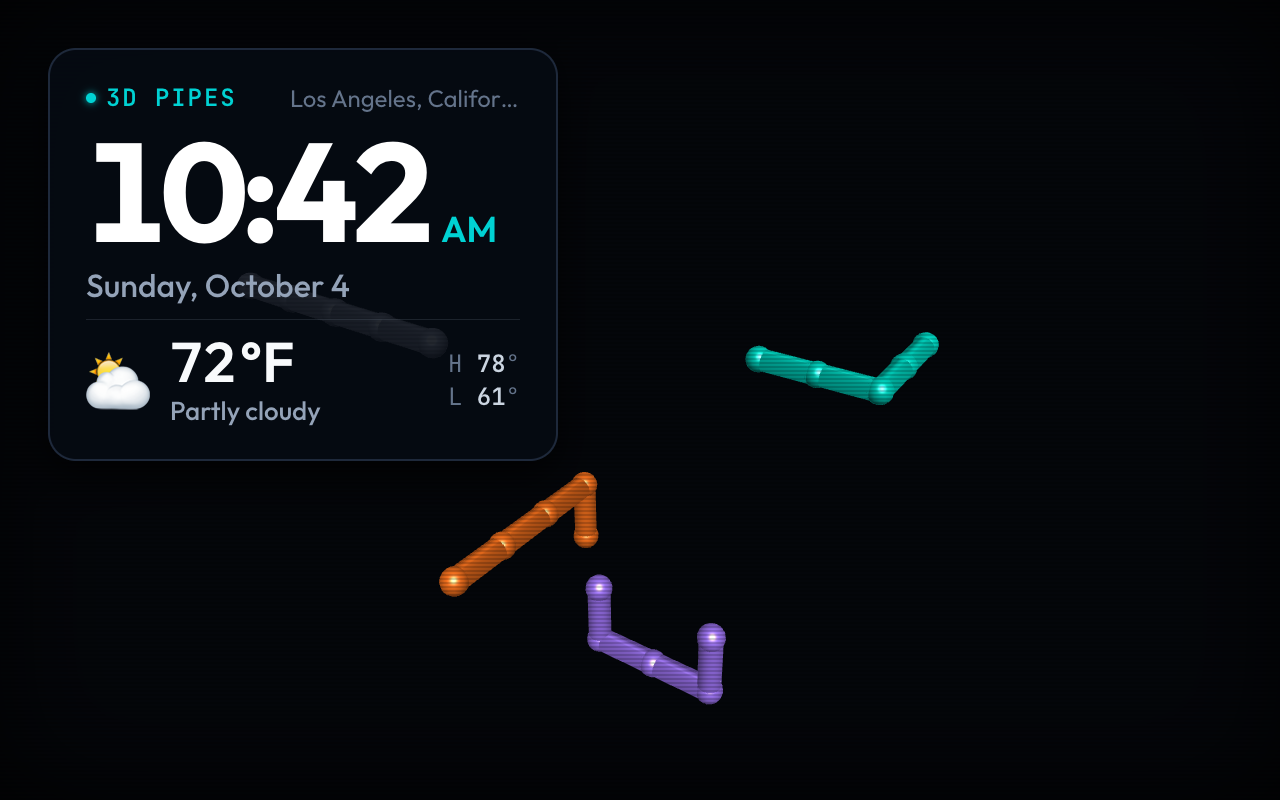
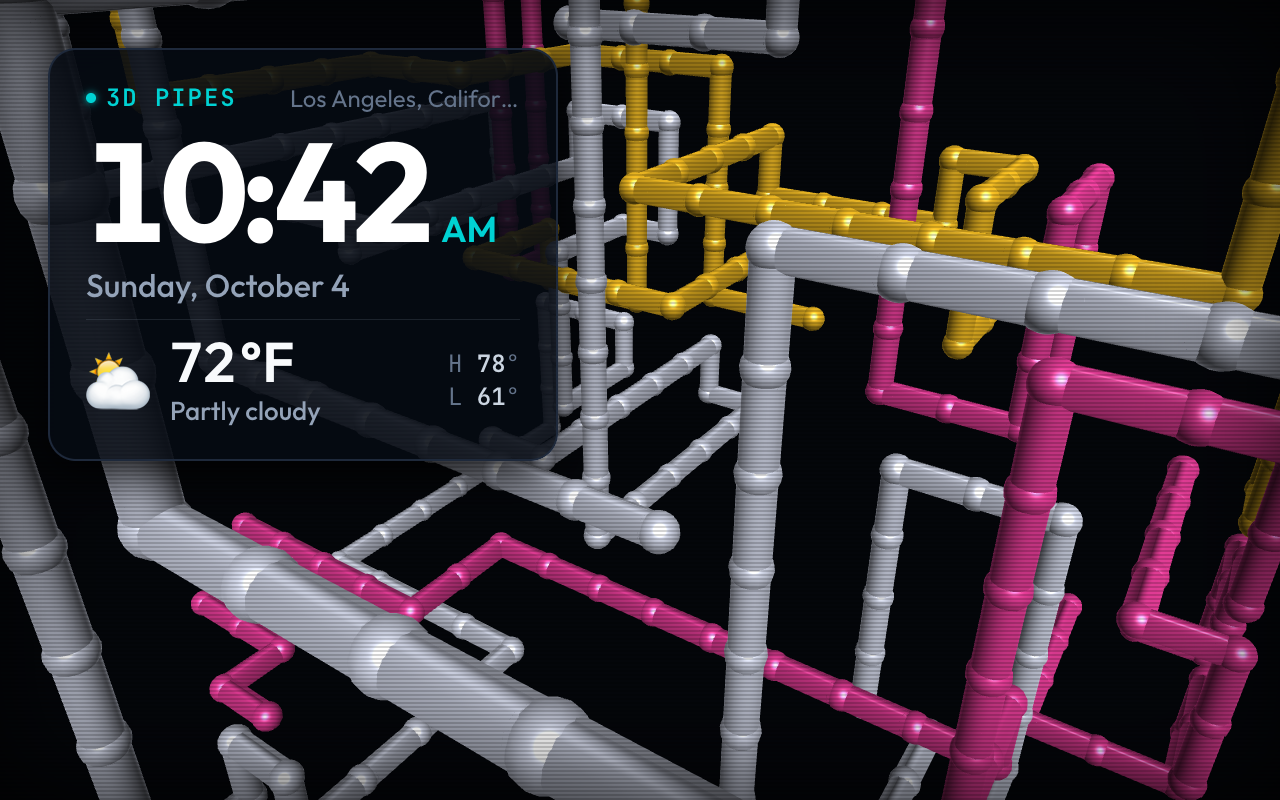
examples: fuller 3D Pipes screenshot (4 s in)

diff --git a/examples/3d-pipes/README.md b/examples/3d-pipes/README.md
@@ -37,4 +37,5 @@ The pipes don't use any data.
   only draws the new segments each frame, so the load is modest, but it's best as a screensaver-style
   screen in a playlist rather than a display's only screen around the clock.
 - **Needs WebGL.** Without it the canvas stays empty and only the card shows.
-- The screenshot was rendered with software WebGL; on the Echo the pipes are drawn by the GPU.
+- The screenshot shows the scene 240 frames in (about 4 seconds at 60 Hz), rendered with software WebGL;
+  on the Echo the pipes are drawn by the GPU.
